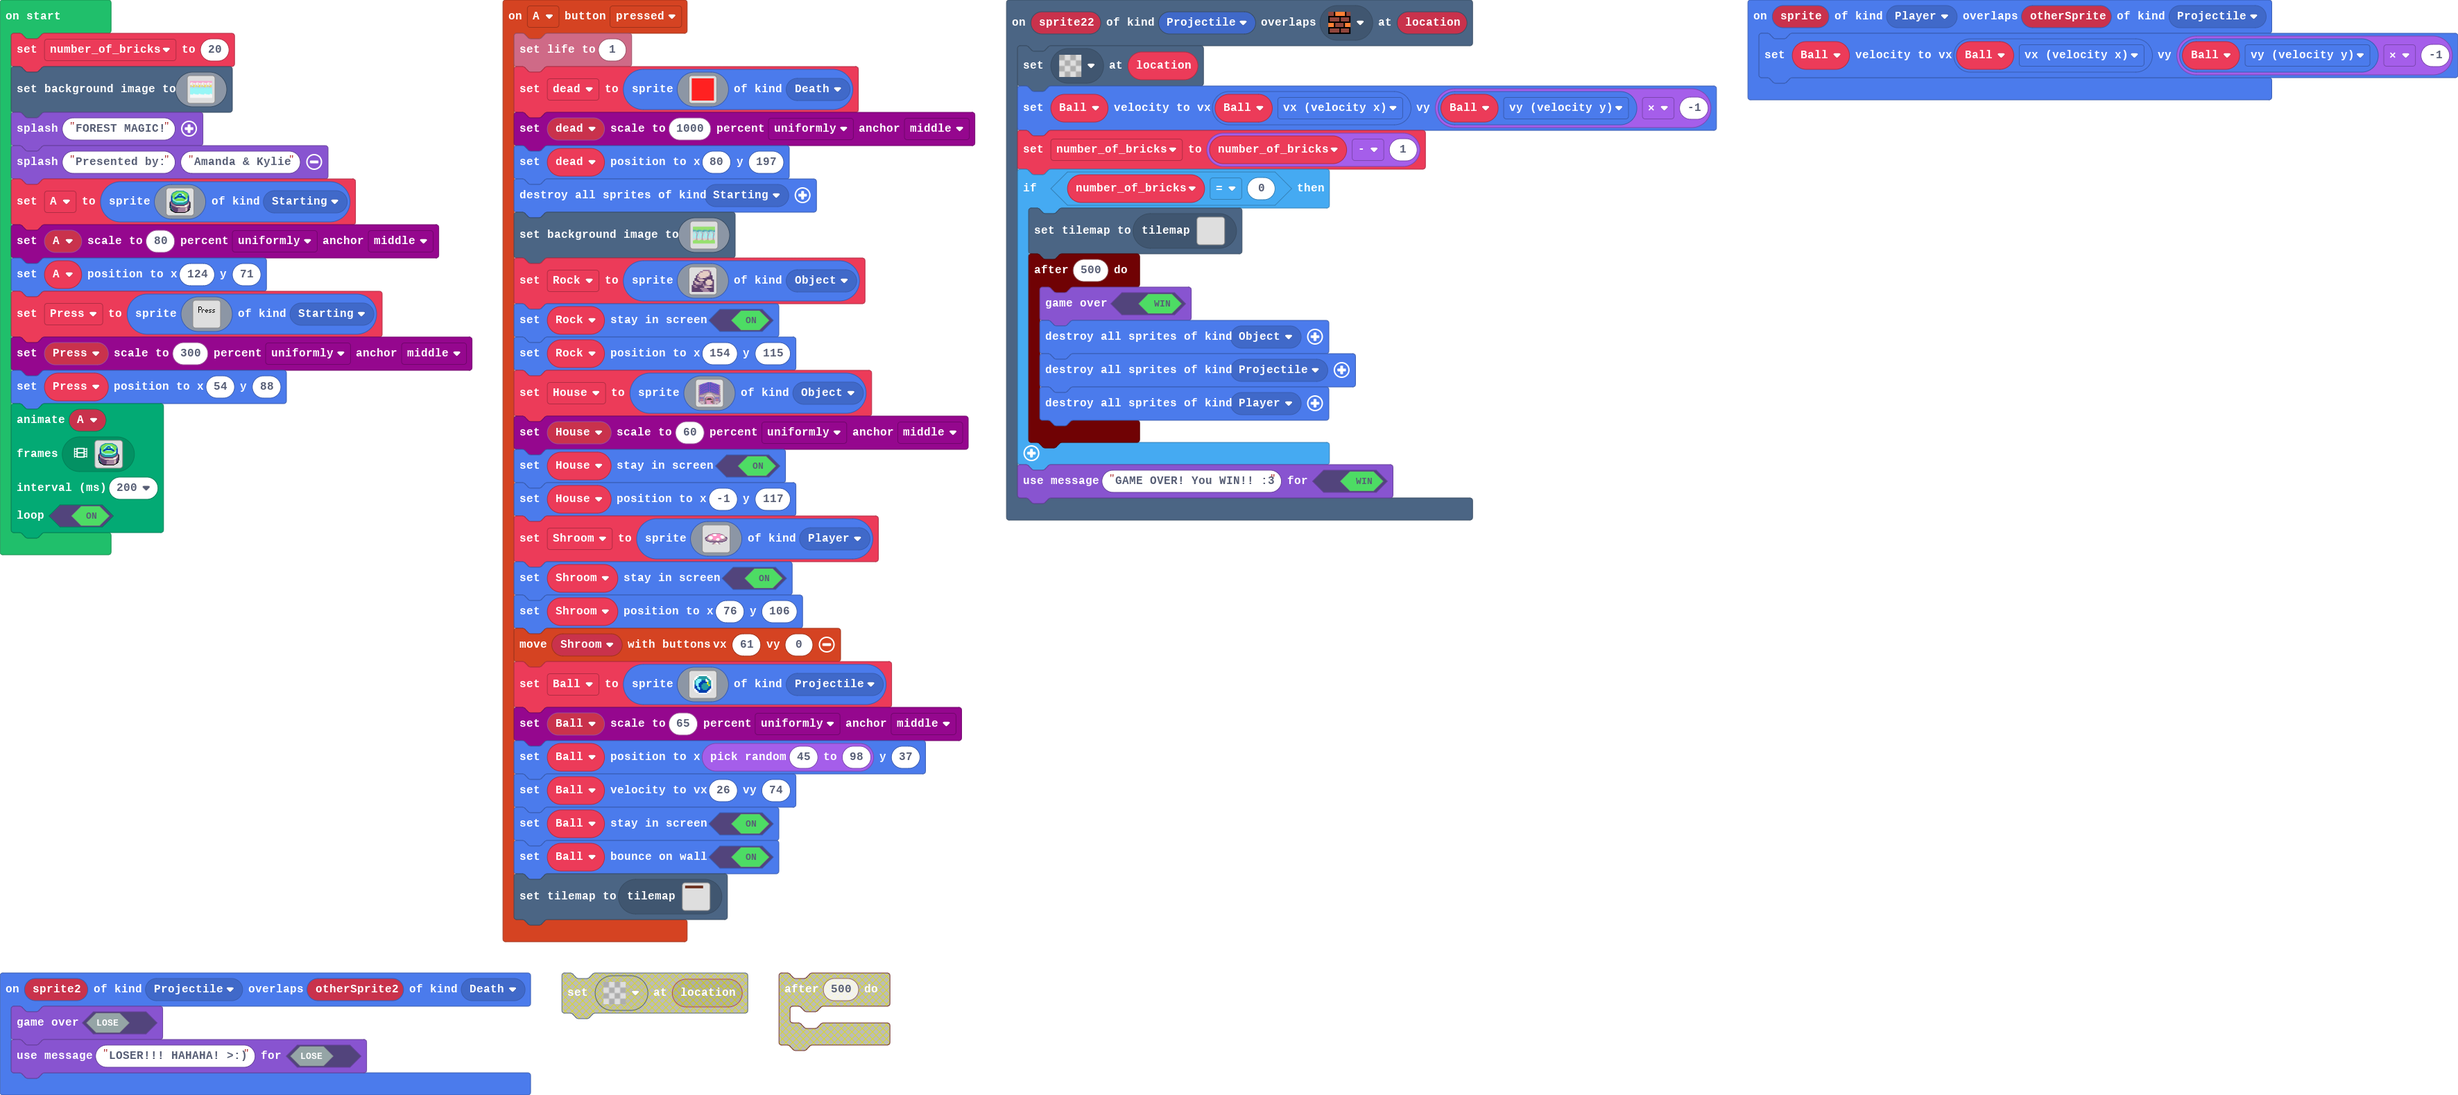
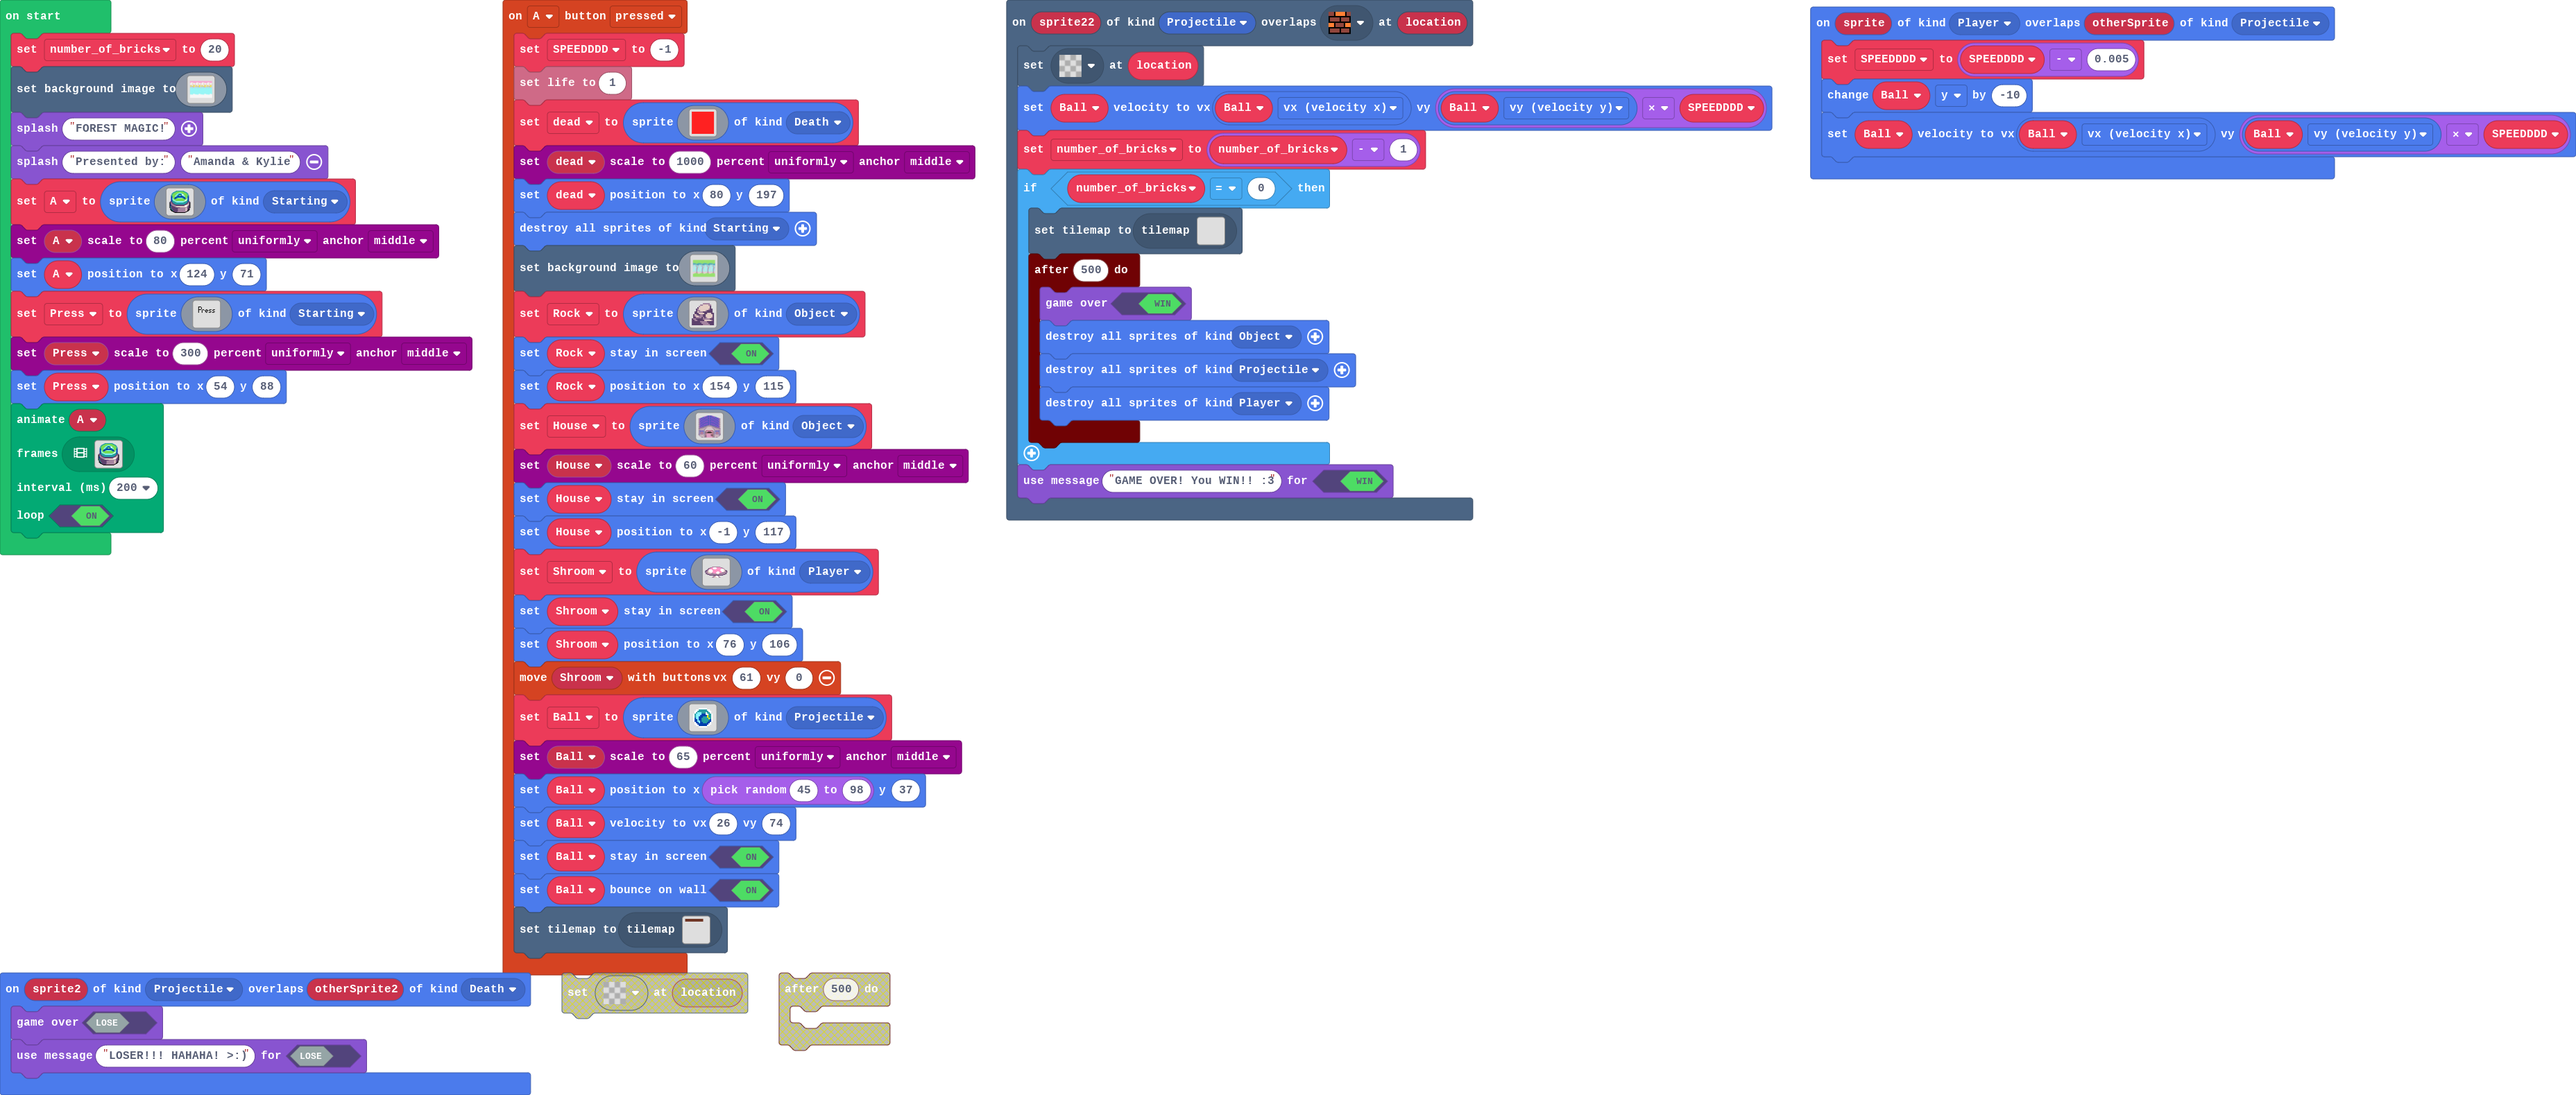
DONNNNNEEEEEEE!!!!!!!! and it works!

Changed region(s): [[0.0, 0.0, 1.0, 0.993], [0.1862, 0.962, 0.2173, 1.0]]

diff --git a/tilemap.g.ts b/tilemap.g.ts
@@ -699,6 +699,44 @@ namespace myTiles {
 . . . . . . . . . . . . . . . . 
 . . . . . . . . . . . . . . . . 
 `, [myTiles.transparency16], TileScale.Sixteen);
+            case "level37":
+            case "level37":return tiles.createTilemap(hex`1000100000000000000000000000000000000000000000000000000000000000000000000000000000000000000000000000000000000000000000000000000000000000000000000000000000000000000000000000000000000000000000000000000000000000000000000000000000000000000000000000000000000000000000000000000000000000000000000000000000000000000000000000000000000000000000000000000000000000000000000000000000000000000000000000000000000000000000000000000000000000000000000000000000000000000000000000000000000000000000000000000000000000000000000000000000000000`, img`
+. . . . . . . . . . . . . . . . 
+. . . . . . . . . . . . . . . . 
+. . . . . . . . . . . . . . . . 
+. . . . . . . . . . . . . . . . 
+. . . . . . . . . . . . . . . . 
+. . . . . . . . . . . . . . . . 
+. . . . . . . . . . . . . . . . 
+. . . . . . . . . . . . . . . . 
+. . . . . . . . . . . . . . . . 
+. . . . . . . . . . . . . . . . 
+. . . . . . . . . . . . . . . . 
+. . . . . . . . . . . . . . . . 
+. . . . . . . . . . . . . . . . 
+. . . . . . . . . . . . . . . . 
+. . . . . . . . . . . . . . . . 
+. . . . . . . . . . . . . . . . 
+`, [myTiles.transparency16], TileScale.Sixteen);
+            case "level38":
+            case "level38":return tiles.createTilemap(hex`1000100000000000000000000000000000000000000000000000000000000000000000000000000000000000000000000000000000000000000000000000000000000000000000000000000000000000000000000000000000000000000000000000000000000000000000000000000000000000000000000000000000000000000000000000000000000000000000000000000000000000000000000000000000000000000000000000000000000000000000000000000000000000000000000000000000000000000000000000000000000000000000000000000000000000000000000000000000000000000000000000000000000000000000000000000000000000`, img`
+. . . . . . . . . . . . . . . . 
+. . . . . . . . . . . . . . . . 
+. . . . . . . . . . . . . . . . 
+. . . . . . . . . . . . . . . . 
+. . . . . . . . . . . . . . . . 
+. . . . . . . . . . . . . . . . 
+. . . . . . . . . . . . . . . . 
+. . . . . . . . . . . . . . . . 
+. . . . . . . . . . . . . . . . 
+. . . . . . . . . . . . . . . . 
+. . . . . . . . . . . . . . . . 
+. . . . . . . . . . . . . . . . 
+. . . . . . . . . . . . . . . . 
+. . . . . . . . . . . . . . . . 
+. . . . . . . . . . . . . . . . 
+. . . . . . . . . . . . . . . . 
+`, [myTiles.transparency16], TileScale.Sixteen);
         }
         return null;
     })

diff --git a/main.ts b/main.ts
@@ -5,7 +5,7 @@ namespace SpriteKind {
 }
 scene.onOverlapTile(SpriteKind.Projectile, assets.tile`myTile`, function (sprite22, location) {
     tiles.setTileAt(location, assets.tile`transparency16`)
-    Ball.setVelocity(Ball.vx, Ball.vy * -1)
+    Ball.setVelocity(Ball.vx, Ball.vy * SPEEDDDD)
     number_of_bricks = number_of_bricks - 1
     if (number_of_bricks == 0) {
         tiles.setCurrentTilemap(tilemap`level36`)
@@ -19,6 +19,7 @@ scene.onOverlapTile(SpriteKind.Projectile, assets.tile`myTile`, function (sprite
     game.setGameOverMessage(true, "GAME OVER! You WIN!! :3")
 })
 controller.A.onEvent(ControllerButtonEvent.Pressed, function () {
+    SPEEDDDD = -1
     info.setLife(1)
     dead = sprites.create(img`
         2 2 2 2 2 2 2 2 2 2 2 2 2 2 2 2 
@@ -79,7 +80,9 @@ controller.A.onEvent(ControllerButtonEvent.Pressed, function () {
     tiles.setCurrentTilemap(tilemap`Bricks`)
 })
 sprites.onOverlap(SpriteKind.Player, SpriteKind.Projectile, function (sprite, otherSprite) {
-    Ball.setVelocity(Ball.vx, Ball.vy * -1)
+    SPEEDDDD = SPEEDDDD - 0.005
+    Ball.y += -10
+    Ball.setVelocity(Ball.vx, Ball.vy * SPEEDDDD)
 })
 sprites.onOverlap(SpriteKind.Projectile, SpriteKind.Death, function (sprite2, otherSprite2) {
     game.gameOver(false)
@@ -89,6 +92,7 @@ let Shroom: Sprite = null
 let House: Sprite = null
 let Rock: Sprite = null
 let dead: Sprite = null
+let SPEEDDDD = 0
 let Ball: Sprite = null
 let number_of_bricks = 0
 number_of_bricks = 20

diff --git a/main.py b/main.py
@@ -9,7 +9,7 @@ def on_overlap_tile(sprite22, location):
     tiles.set_tile_at(location, assets.tile("""
         transparency16
     """))
-    Ball.set_velocity(Ball.vx, Ball.vy * -1)
+    Ball.set_velocity(Ball.vx, Ball.vy * SPEEDDDD)
     number_of_bricks = number_of_bricks - 1
     if number_of_bricks == 0:
         tiles.set_current_tilemap(tilemap("""
@@ -31,7 +31,8 @@ scene.on_overlap_tile(SpriteKind.projectile,
     on_overlap_tile)
 
 def on_a_pressed():
-    global dead, Rock, House, Shroom, Ball
+    global SPEEDDDD, dead, Rock, House, Shroom, Ball
+    SPEEDDDD = -1
     info.set_life(1)
     dead = sprites.create(img("""
             2 2 2 2 2 2 2 2 2 2 2 2 2 2 2 2 
@@ -105,7 +106,10 @@ def on_a_pressed():
 controller.A.on_event(ControllerButtonEvent.PRESSED, on_a_pressed)
 
 def on_on_overlap(sprite, otherSprite):
-    Ball.set_velocity(Ball.vx, Ball.vy * -1)
+    global SPEEDDDD
+    SPEEDDDD = SPEEDDDD - 0.005
+    Ball.y += -10
+    Ball.set_velocity(Ball.vx, Ball.vy * SPEEDDDD)
 sprites.on_overlap(SpriteKind.player, SpriteKind.projectile, on_on_overlap)
 
 def on_on_overlap2(sprite2, otherSprite2):
@@ -117,6 +121,7 @@ Shroom: Sprite = None
 House: Sprite = None
 Rock: Sprite = None
 dead: Sprite = None
+SPEEDDDD = 0
 Ball: Sprite = None
 number_of_bricks = 0
 number_of_bricks = 20
